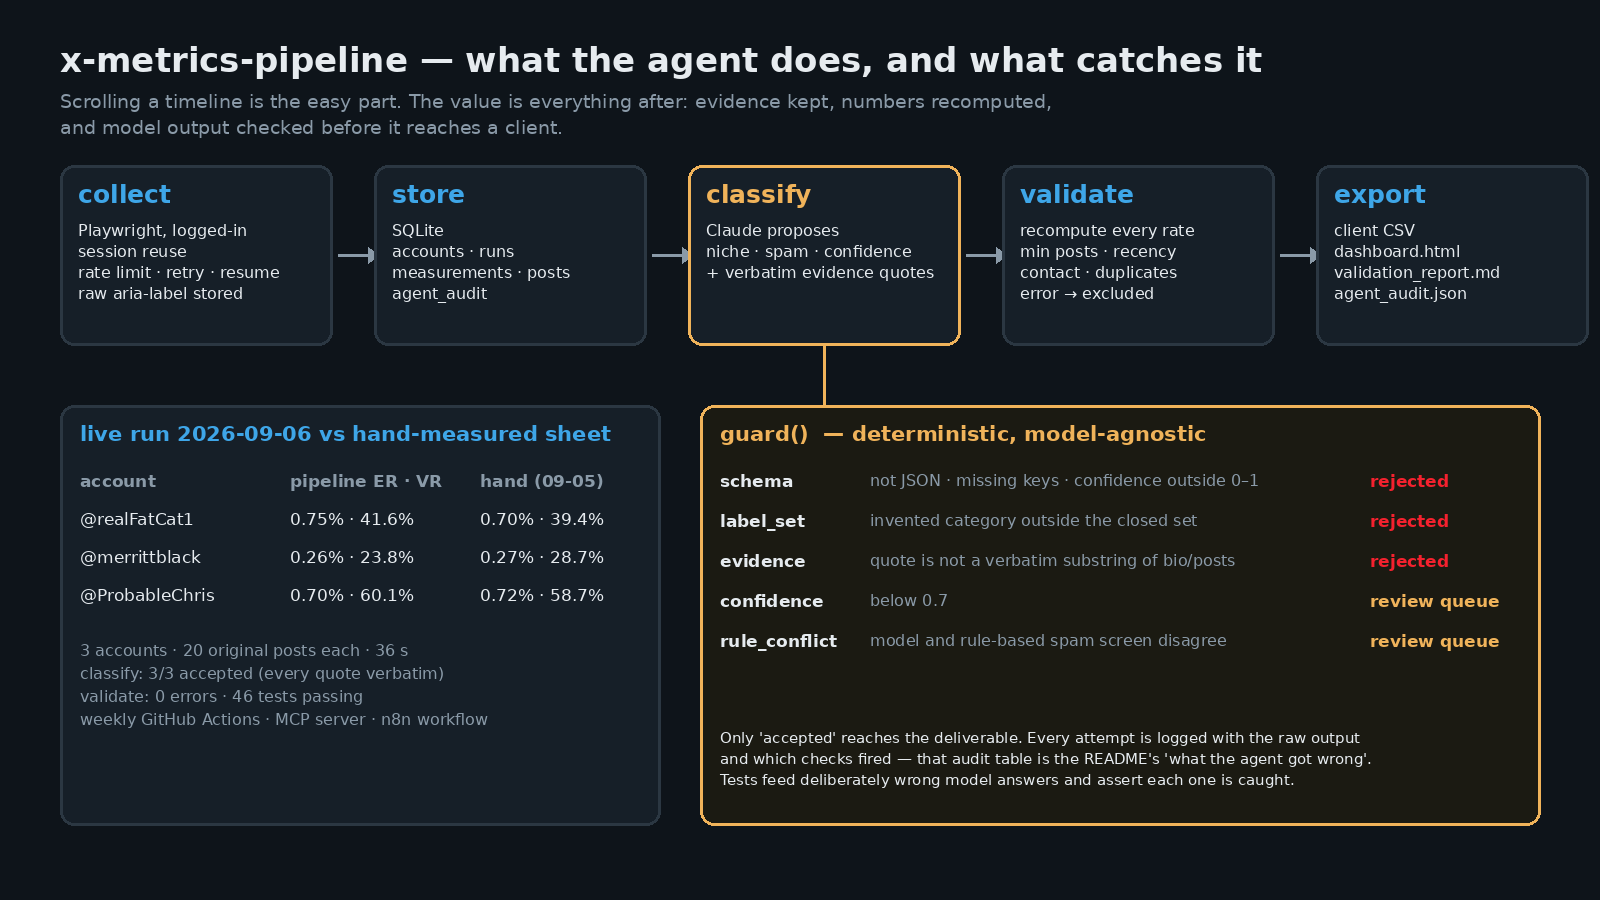
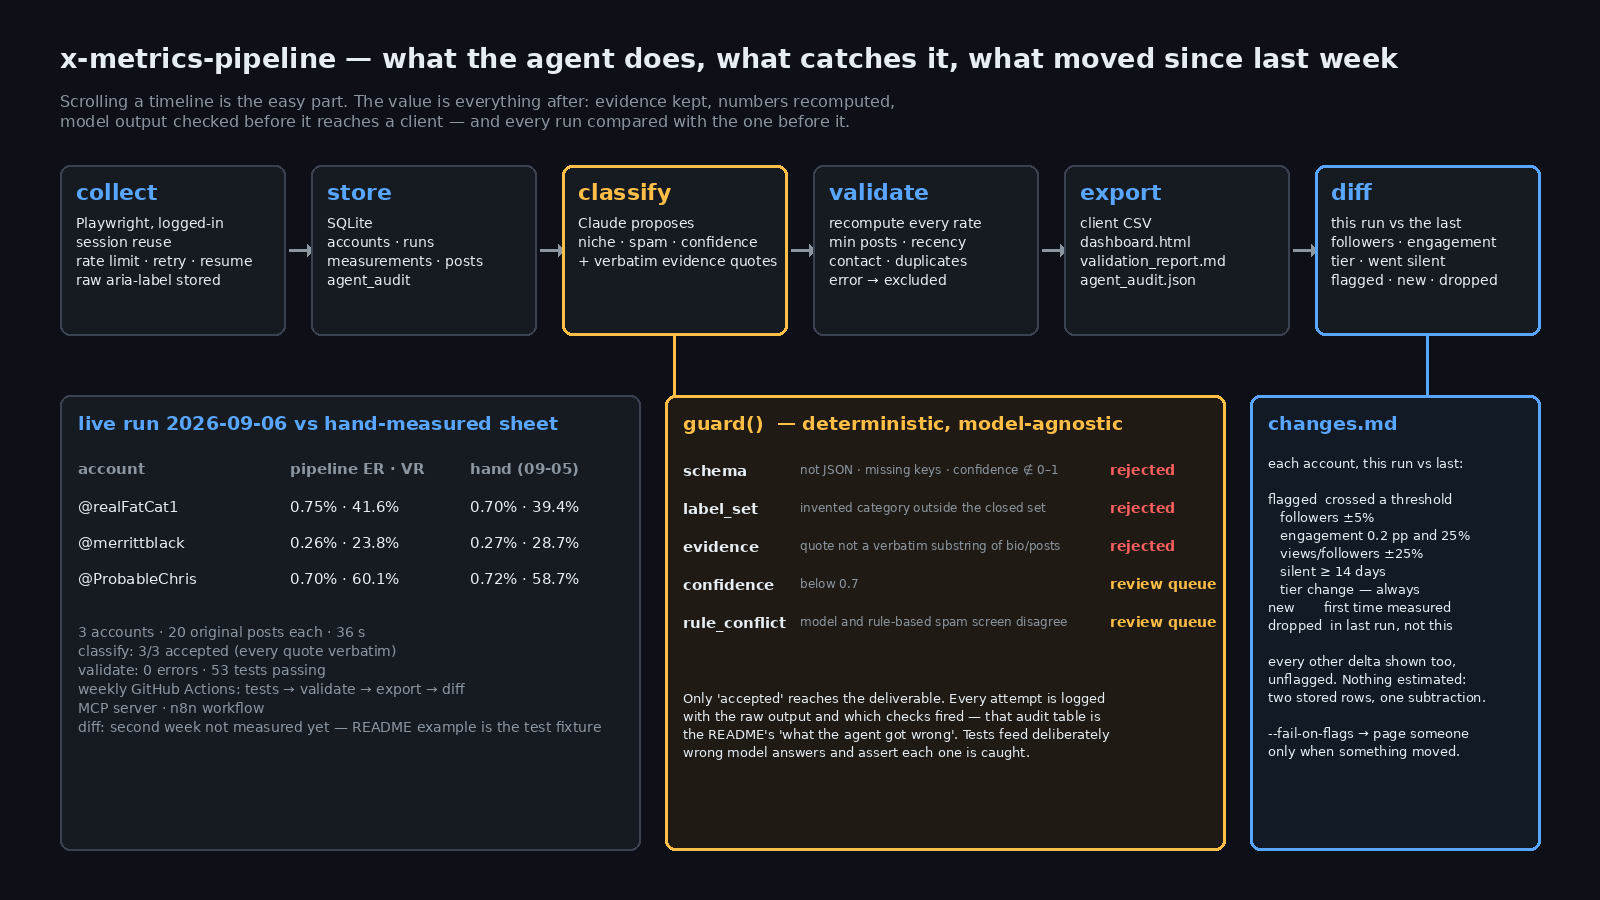
docs: architecture.png with the diff stage and changes.md panel, 53 tests; generated by tools/architecture_png.py so it cannot drift from the code again

diff --git a/tools/architecture_png.py b/tools/architecture_png.py
@@ -1,0 +1,128 @@
+"""Draw docs/architecture.png. Kept as code so the picture can be regenerated when the pipeline
+changes instead of drifting away from it (the previous image still said 46 tests and had no diff stage).
+
+    python tools/architecture_png.py            # -> docs/architecture.png (1600x900)
+"""
+from __future__ import annotations
+
+from pathlib import Path
+
+from PIL import Image, ImageDraw, ImageFont
+
+W, H = 1600, 900
+BG, PANEL, BORDER = (13, 17, 23), (22, 27, 34), (58, 66, 80)
+FG, MUTED, BLUE, ORANGE, RED = (230, 237, 243), (140, 150, 160), (88, 166, 255), (255, 190, 70), (255, 95, 95)
+FONT_DIR = "/usr/share/fonts/truetype/dejavu"
+
+
+def font(size: int, bold: bool = False) -> ImageFont.FreeTypeFont:
+    return ImageFont.truetype(f"{FONT_DIR}/DejaVuSans{'-Bold' if bold else ''}.ttf", size)
+
+
+def panel(d: ImageDraw.ImageDraw, box, border=BORDER, fill=PANEL, width=2):
+    d.rounded_rectangle(box, radius=10, fill=fill, outline=border, width=width)
+
+
+def lines(d: ImageDraw.ImageDraw, x, y, rows, f, fill=FG, gap=6):
+    for r in rows:
+        d.text((x, y), r, font=f, fill=fill)
+        y += f.size + gap
+    return y
+
+
+def main(out: Path = Path("docs/architecture.png")) -> Path:
+    im = Image.new("RGB", (W, H), BG)
+    d = ImageDraw.Draw(im)
+
+    d.text((60, 42), "x-metrics-pipeline — what the agent does, what catches it, what moved since last week",
+           font=font(27, True), fill=FG)
+    lines(d, 60, 92, ["Scrolling a timeline is the easy part. The value is everything after: evidence kept, numbers recomputed,",
+                      "model output checked before it reaches a client — and every run compared with the one before it."],
+          font(16), fill=MUTED, gap=4)
+
+    # ---- stage boxes: 6 across
+    stages = [
+        ("collect", ["Playwright, logged-in", "session reuse", "rate limit · retry · resume", "raw aria-label stored"], BORDER),
+        ("store", ["SQLite", "accounts · runs", "measurements · posts", "agent_audit"], BORDER),
+        ("classify", ["Claude proposes", "niche · spam · confidence", "+ verbatim evidence quotes"], ORANGE),
+        ("validate", ["recompute every rate", "min posts · recency", "contact · duplicates", "error → excluded"], BORDER),
+        ("export", ["client CSV", "dashboard.html", "validation_report.md", "agent_audit.json"], BORDER),
+        ("diff", ["this run vs the last", "followers · engagement", "tier · went silent", "flagged · new · dropped"], BLUE),
+    ]
+    n, gap, x0, y0, bh = len(stages), 26, 60, 165, 170
+    bw = (W - 2 * x0 - gap * (n - 1)) // n
+    f_title, f_body = font(22, True), font(14)
+    for i, (name, body, border) in enumerate(stages):
+        x = x0 + i * (bw + gap)
+        panel(d, (x, y0, x + bw, y0 + bh), border=border, width=3 if border != BORDER else 2)
+        d.text((x + 16, y0 + 14), name, font=f_title, fill=ORANGE if border == ORANGE else BLUE)
+        lines(d, x + 16, y0 + 50, body, f_body, gap=5)
+        if i < n - 1:
+            ax = x + bw + 4
+            d.line((ax, y0 + bh // 2, ax + gap - 8, y0 + bh // 2), fill=MUTED, width=3)
+            d.polygon([(ax + gap - 8, y0 + bh // 2 - 6), (ax + gap - 8, y0 + bh // 2 + 6), (ax + gap - 1, y0 + bh // 2)], fill=MUTED)
+
+    # connector from classify to guard panel
+    cx = x0 + 2 * (bw + gap) + bw // 2
+    d.line((cx, y0 + bh, cx, 395), fill=ORANGE, width=3)
+    # connector from diff to changes panel
+    dx = x0 + 5 * (bw + gap) + bw // 2
+    d.line((dx, y0 + bh, dx, 395), fill=BLUE, width=3)
+
+    # ---- bottom-left: live run vs hand sheet
+    L = (60, 395, 640, 850)
+    panel(d, L)
+    d.text((78, 412), "live run 2026-09-06 vs hand-measured sheet", font=font(19, True), fill=BLUE)
+    ft, fb = font(15, True), font(15)
+    d.text((78, 460), "account", font=ft, fill=MUTED); d.text((290, 460), "pipeline ER · VR", font=ft, fill=MUTED); d.text((470, 460), "hand (09-05)", font=ft, fill=MUTED)
+    rows = [("@realFatCat1", "0.75% · 41.6%", "0.70% · 39.4%"), ("@merrittblack", "0.26% · 23.8%", "0.27% · 28.7%"), ("@ProbableChris", "0.70% · 60.1%", "0.72% · 58.7%")]
+    y = 498
+    for a, b, c in rows:
+        d.text((78, y), a, font=fb, fill=FG); d.text((290, y), b, font=fb, fill=FG); d.text((470, y), c, font=fb, fill=FG); y += 36
+    lines(d, 78, y + 18, ["3 accounts · 20 original posts each · 36 s",
+                          "classify: 3/3 accepted (every quote verbatim)",
+                          "validate: 0 errors · 53 tests passing",
+                          "weekly GitHub Actions: tests → validate → export → diff",
+                          "MCP server · n8n workflow",
+                          "diff: second week not measured yet — README example is the test fixture"],
+          font(14), fill=MUTED, gap=5)
+
+    # ---- bottom-middle: guard panel
+    G = (665, 395, 1225, 850)
+    panel(d, G, border=ORANGE, fill=(31, 27, 20), width=3)
+    d.text((683, 412), "guard()  — deterministic, model-agnostic", font=font(19, True), fill=ORANGE)
+    checks = [("schema", "not JSON · missing keys · confidence ∉ 0–1", "rejected", RED),
+              ("label_set", "invented category outside the closed set", "rejected", RED),
+              ("evidence", "quote not a verbatim substring of bio/posts", "rejected", RED),
+              ("confidence", "below 0.7", "review queue", ORANGE),
+              ("rule_conflict", "model and rule-based spam screen disagree", "review queue", ORANGE)]
+    y = 462
+    for k, what, verdict, col in checks:
+        d.text((683, y), k, font=font(15, True), fill=FG)
+        d.text((800, y), what, font=font(12), fill=MUTED)
+        d.text((1110, y), verdict, font=font(14, True), fill=col)
+        y += 38
+    lines(d, 683, 690, ["Only 'accepted' reaches the deliverable. Every attempt is logged",
+                        "with the raw output and which checks fired — that audit table is",
+                        "the README's 'what the agent got wrong'. Tests feed deliberately",
+                        "wrong model answers and assert each one is caught."],
+          font(13), fill=FG, gap=5)
+
+    # ---- bottom-right: changes panel
+    C = (1250, 395, 1540, 850)
+    panel(d, C, border=BLUE, fill=(18, 26, 38), width=3)
+    d.text((1268, 412), "changes.md", font=font(19, True), fill=BLUE)
+    lines(d, 1268, 455, ["each account, this run vs last:", "", "flagged  crossed a threshold", "   followers ±5%", "   engagement 0.2 pp and 25%",
+                         "   views/followers ±25%", "   silent ≥ 14 days", "   tier change — always",
+                         "new       first time measured", "dropped  in last run, not this",
+                         "", "every other delta shown too,", "unflagged. Nothing estimated:", "two stored rows, one subtraction.",
+                         "", "--fail-on-flags → page someone", "only when something moved."],
+          font(13), fill=FG, gap=5)
+
+    out.parent.mkdir(parents=True, exist_ok=True)
+    im.save(out)
+    return out
+
+
+if __name__ == "__main__":
+    print(main())
